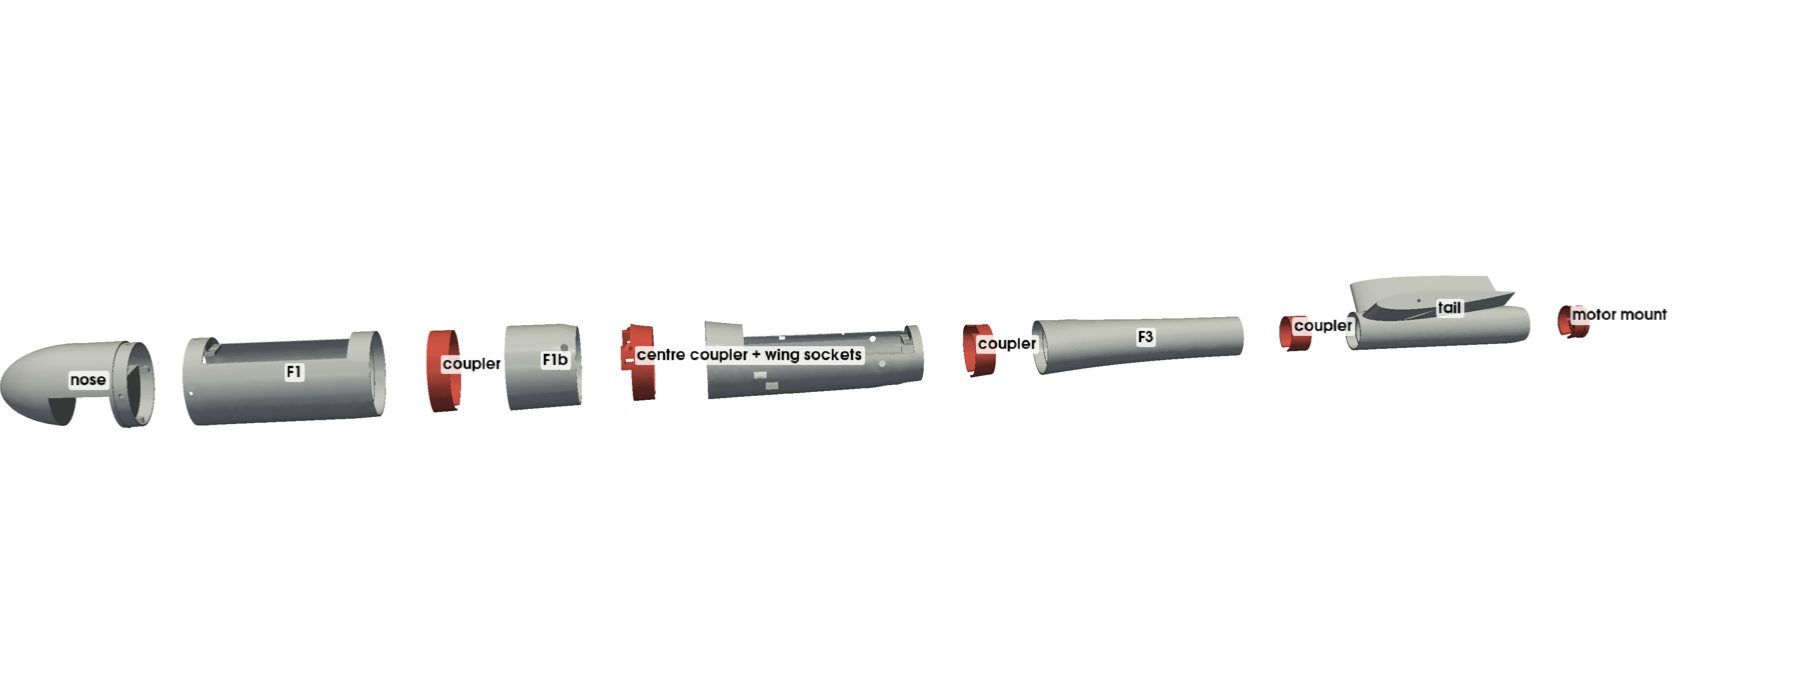
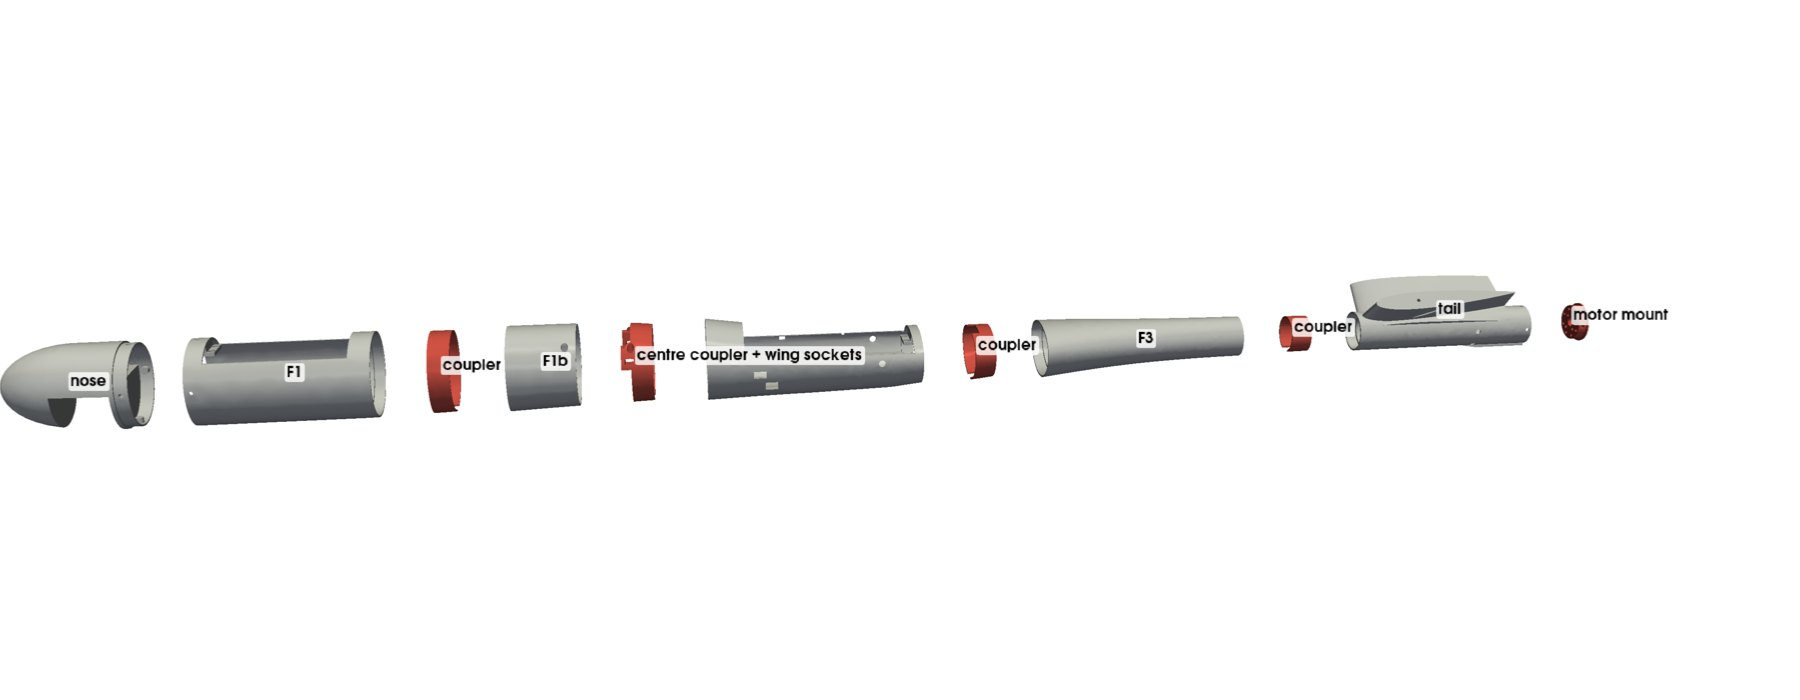
Monedula V11b: new renders, FreeCAD model, motor inside the tail on a removable coin, progress to 18 Nov (#22)
- monedula.html: V11b render and figures, motor coin, two-rod tail, hinges inside the skin, FreeCAD as the design method
- build.html: V11b renders (fuselage, wing root, hinges), 1.2 mm hinge slots, motor coin
- progress.html: V11b timeline entries (17 and 18 Nov), FreeCAD wording
- about.html: Monedula card to V11b
- sitemap: lastmod 2026-11-18

Claude-Session: https://claude.ai/code/session_01CFhWm8xeH6teAiDTszaRiF

diff --git a/monedula.html b/monedula.html
@@ -78,11 +78,11 @@
   <section class="s" id="monedula">
     <div class="wrap">
       <div class="divider"><img src="images/logo_small.jpg" alt="" width="96" height="96" loading="lazy" decoding="async"><div class="rule"></div><span class="sec">Next plan</span></div>
-      <div class="kicker rv">Next airframe · V11, designed and CFD-checked, not built yet</div>
+      <div class="kicker rv">Next airframe · V11b, designed in FreeCAD and CFD-checked, not built yet</div>
       <h2 class="rv">SILM Monedula</h2>
-      <p class="lead rv">Monedula is our plan for the successor to SILM Buteo. It keeps the same electronics, camera and software, and reworks the airframe around everything we learnt from Buteo: a slimmer fuselage, a longer wing on a stronger spar, the motor outside the tail, PETG connectors and TPU hinges, and a swappable payload nose. Monedula is the Latin name of the jackdaw.</p>
+      <p class="lead rv">Monedula is our plan for the successor to SILM Buteo. It keeps the same electronics, camera and software, and reworks the airframe around everything we learnt from Buteo: a slimmer fuselage, a longer wing on a stronger spar, the motor in the tail end on a removable PETG coin, PETG connectors and TPU hinges, and a swappable payload nose. Monedula is the Latin name of the jackdaw.</p>
 
-      <figure class="rv" style="margin-top:34px"><img class="zoom" src="images/monedula.jpg" alt="SILM Monedula V11 CAD render: slim fuselage, 1.5 m straight wing with orange ailerons and a V-tail" data-cap="SILM Monedula V11, CAD model. Orange: ailerons and ruddervators. Light blue: hatches. Red: PETG connectors. Black: TPU sleds." width="1800" height="1000" loading="lazy" decoding="async"><figcaption>Monedula V11. All 69 parts are separate, print-ready STEP files for a 220 mm print bed, with the print material in each file name.</figcaption></figure>
+      <figure class="rv" style="margin-top:34px"><img class="zoom" src="images/monedula.jpg" alt="SILM Monedula V11b FreeCAD model render: slim fuselage, 1.5 m straight wing with orange ailerons and a V-tail" data-cap="SILM Monedula V11b, modelled in FreeCAD. Orange: ailerons and ruddervators. Light blue: hatches. Red: PETG connectors. Black: TPU sleds." width="1800" height="1000" loading="lazy" decoding="async"><figcaption>Monedula V11b, modelled in FreeCAD. All 69 parts are separate, print-ready STEP files for a 220 mm print bed, with the print material in each file name.</figcaption></figure>
 
       <div class="statgrid rv">
         <div><div class="v">1.5 m</div><div class="l">wingspan, up from 1.4 m</div></div>
@@ -95,40 +95,40 @@
       <table class="tbl rv">
         <thead><tr><th>Area</th><th>SILM Buteo</th><th>Monedula</th></tr></thead>
         <tbody>
-          <tr><td>Fuselage</td><td>About 98 mm round, components spread out</td><td>79 x 81 mm, 918 mm long in six printed sections; electronics on two removable racks behind the battery</td></tr>
+          <tr><td>Fuselage</td><td>About 98 mm round, components spread out</td><td>79 x 81 mm, 919 mm long in six printed sections, smooth curvature-continuous skin; electronics on two removable racks behind the battery</td></tr>
           <tr><td>Wing</td><td>1.4 m, 3° dihedral, 7 mm carbon tube</td><td>1.5 m, flat, 10 mm carbon tube with 6 mm rods outboard; bolts on with two screws</td></tr>
-          <tr><td>Motor</td><td>Inside the tail cone</td><td>Outside on a PETG end plug, in free air for cooling</td></tr>
-          <tr><td>Tail</td><td>V-tail close to the propeller</td><td>Larger 38° V-tail on a longer tail arm, 70 mm clear of the propeller</td></tr>
+          <tr><td>Motor</td><td>Inside the tail cone</td><td>Inside the straight tail end on a PETG coin held by three screws; motor and coin come out together. Vents and intakes cool it</td></tr>
+          <tr><td>Tail</td><td>V-tail close to the propeller</td><td>Larger 38° V-tail on a longer tail arm, two carbon rods per panel and solid tips</td></tr>
           <tr><td>Joints</td><td>Printed overlapping spigots</td><td>PETG couplers between all sections, PETG wing root ribs and sockets, PETG spar carrier</td></tr>
-          <tr><td>Control surfaces</td><td>Printed horns</td><td>TPU flex hinges and PETG horns; SG90s in PETG frames</td></tr>
+          <tr><td>Control surfaces</td><td>Printed horns</td><td>TPU flex hinges inside the skin and PETG horns; SG90s in PETG frames</td></tr>
           <tr><td>Landing</td><td>Belly</td><td>Two screw-on TPU sleds, replaceable after a hard landing</td></tr>
           <tr><td>Payload</td><td>Camera in the nose</td><td>Swappable nose module on four heat-set inserts</td></tr>
-          <tr><td>Design method</td><td>Hand-modelled in SolidWorks</td><td>Generated from parametric Python code, so a dimension change rebuilds and rechecks every part</td></tr>
+          <tr><td>Design method</td><td>Hand-modelled in SolidWorks</td><td>Modelled in FreeCAD; every part checked for clashes, fit clearances and assembly paths</td></tr>
         </tbody>
       </table>
-      <h3 class="rv" style="margin-top:56px">Key figures, V11</h3>
+      <h3 class="rv" style="margin-top:56px">Key figures, V11b</h3>
       <div class="tblwrap rv"><table class="tbl">
         <thead><tr><th>Figure</th><th>Value</th><th>Source</th></tr></thead>
         <tbody>
           <tr><td>Wingspan, area, aspect ratio</td><td>1.50 m, 0.270 m², 8.3</td><td>CAD</td></tr>
           <tr><td>Root / tip chord, mean chord</td><td>240 / 120 mm, 187 mm</td><td>CAD</td></tr>
           <tr><td>Airfoils</td><td>MH32 wing, NACA 0012 V-tail at 38°</td><td>design</td></tr>
-          <tr><td>Length</td><td>918 mm plus motor and folding prop</td><td>CAD</td></tr>
+          <tr><td>Length</td><td>919 mm plus the folding prop</td><td>CAD</td></tr>
           <tr><td>All-up mass</td><td>1.79 kg modelled; 1.86–1.95 kg expected on the scale</td><td>mass model</td></tr>
-          <tr><td>Balance point</td><td>361.5 mm from the nose tip</td><td>mass model</td></tr>
+          <tr><td>Balance point</td><td>361.5 mm from the nose tip, set with the battery</td><td>mass model</td></tr>
           <tr><td>Static margin</td><td>13.7 % (neutral point 387 mm)</td><td>OpenFOAM</td></tr>
           <tr><td>Cruise</td><td>about 15 m/s, lift coefficient 0.46, L/D about 17</td><td>OpenFOAM</td></tr>
           <tr><td>Stall</td><td>about 10 m/s</td><td>estimate</td></tr>
-          <tr><td>Printed parts</td><td>69: 28 LW-PLA, 21 PETG, 20 TPU</td><td>CAD</td></tr>
+          <tr><td>Printed parts</td><td>69: 28 LW-PLA, 21 PETG, 20 TPU, plus a fit-test coupon</td><td>CAD</td></tr>
           <tr><td>Parts cost</td><td>about €870, of which the airframe about €110</td><td>price check, Nov 2026</td></tr>
         </tbody>
       </table></div>
-      <p class="note rv">How we got here: the first OpenFOAM run on Monedula (16 November) showed the earlier layout was unstable in pitch, with a static margin of −3.4 %. Our design tool had predicted +14 % because it ignores the wing's downwash on the tail. We lengthened the fuselage by 68 mm, enlarged the V-tail and ran the CFD again: 13.7 %. All figures are design estimates, not flight data.</p>
+      <p class="note rv">How we got here: the first OpenFOAM run on Monedula (16 November) showed the earlier layout was unstable in pitch, with a static margin of −3.4 %. Our design tool had predicted +14 % because it ignores the wing's downwash on the tail. We lengthened the fuselage by 68 mm, enlarged the V-tail and ran the CFD again: 13.7 %. V11b (17–18 November) smoothed the fuselage skin, joined the V-tail fully to the body, moved the hinges inside the skin, stiffened the tail tips, put the motor inside the tail and set fit clearances for LW-PLA and PETG. All figures are design estimates, not flight data.</p>
 
       <h3 class="rv" style="margin-top:56px">Steps before it flies</h3>
       <div class="eval rv">
-        <div class="item"><span class="mk">1</span><div><h4>Check the CAD</h4><p>Every part pair has been checked for clashes in code; next, open the parts in SolidWorks and follow the assembly guide on screen.</p></div></div>
-        <div class="item"><span class="mk">2</span><div><h4>Print test pieces</h4><p>Print one coupler joint, a wing root rib with its socket and a hinged aileron piece; load-test the joint and the root, and flex a TPU hinge a few thousand times.</p></div></div>
+        <div class="item"><span class="mk">1</span><div><h4>Check the CAD</h4><p>Every part pair has been checked for clashes and fit; next, follow the assembly guide on screen in FreeCAD.</p></div></div>
+        <div class="item"><span class="mk">2</span><div><h4>Print test pieces</h4><p>Print the fit coupon, one coupler joint, a wing root rib with its socket and a hinged aileron piece; load-test the joint and the root, and flex a TPU hinge a few thousand times.</p></div></div>
         <div class="item"><span class="mk">3</span><div><h4>Refine the CFD</h4><p>First OpenFOAM runs are done; next, finer meshes with the real control-surface gaps and the camera, and a transition model for drag.</p></div></div>
         <div class="item"><span class="mk">4</span><div><h4>Build and weigh</h4><p>Print the full airframe, weigh every part, and set the balance to 361.5 mm with the battery before the first flight.</p></div></div>
       </div>

diff --git a/progress.html b/progress.html
@@ -144,7 +144,7 @@
 
       <div class="statgrid rv" style="margin:30px 0 0">
         <div><div class="v">8 / 8</div><div class="l">primary components received</div></div>
-        <div><div class="v">V11</div><div class="l">SILM Monedula airframe, 69 print-ready parts, CFD-checked</div></div>
+        <div><div class="v">V11b</div><div class="l">SILM Monedula airframe in FreeCAD, 69 print-ready parts, CFD-checked</div></div>
         <div><div class="v">14 Nov</div><div class="l">first motor thrust test</div></div>
         <div><div class="v" id="countdown">35 days</div><div class="l">to the presentation</div></div>
       </div>
@@ -185,19 +185,21 @@
             <div class="row fresh"><span class="d">9 Nov</span><span class="t">Mass and balance redone for V9: about 1.70 kg all-up, CG 341.7 mm, static margin about 21%. The onboard computer is now a Raspberry Pi 4.</span><span class="o">Analysis</span></div>
             <div class="row fresh"><span class="d">10 Nov</span><span class="t">Full SolidWorks assembly built from the V9 parts, with the second wing mirrored, ready for fit checks.</span><span class="o">CAD</span></div>
             <div class="row fresh"><span class="d">15 Nov</span><span class="t">Website reorganised into separate pages. The current airframe is now called SILM Buteo, and SILM Monedula is the next airframe.</span><span class="o">Website</span></div>
-            <div class="row fresh"><span class="d">15 Nov</span><span class="t">SILM Monedula started as a parametric design in Python (CadQuery): every part is generated from the design data, so a change rebuilds and rechecks the whole airframe. 1.5 m wing, 79 × 81 mm fuselage, motor outside the tail.</span><span class="o">CAD</span></div>
+            <div class="row fresh"><span class="d">15 Nov</span><span class="t">SILM Monedula started as a parametric model in FreeCAD, so a change rebuilds and rechecks the whole airframe. 1.5 m wing, 79 × 81 mm fuselage.</span><span class="o">CAD</span></div>
             <div class="row fresh"><span class="d">16 Nov</span><span class="t">First OpenFOAM run on Monedula. The first mesh used the print files (gaps, seams) and gave L/D 11.6; we discarded it and meshed a clean outer surface with boundary-layer cells instead: L/D 18.</span><span class="o">Analysis</span></div>
             <div class="row fresh"><span class="d">16 Nov</span><span class="t">The same CFD showed the layout was unstable in pitch: static margin −3.4 % instead of the +14 % our design tool predicted. The tool ignores the wing's downwash on the tail; a vortex-lattice check agreed with the CFD.</span><span class="o">Analysis</span></div>
             <div class="row fresh"><span class="d">17 Nov</span><span class="t">Monedula V11: fuselage lengthened by 68 mm and the V-tail enlarged. A second CFD run confirmed a 13.7 % static margin, chosen over 18 % to limit trim drag.</span><span class="o">Design, analysis</span></div>
             <div class="row fresh"><span class="d">17 Nov</span><span class="t">V11 connectors: PETG couplers between all six fuselage sections, Flightory-style PETG wing root ribs and sockets, PETG spar carrier, TPU flex hinges, PETG horns and servo frames, screw-on TPU sleds. The central payload bay was removed; payloads go on the nose.</span><span class="o">CAD</span></div>
             <div class="row fresh"><span class="d">17 Nov</span><span class="t">All 69 parts checked for clashes and fit; STEP files labelled with their print material. Assembly guide and a full materials list written: about €870 in parts and 1.79 kg modelled.</span><span class="o">Documentation</span></div>
+            <div class="row fresh"><span class="d">17 Nov</span><span class="t">Monedula V11b: smoothed fuselage skin (six creases removed), V-tail joined to the body to the trailing edge, ruddervator hinges moved inside the skin, stiffer tail tips with a second carbon rod, fit clearances for LW-PLA and PETG and a fit-test coupon.</span><span class="o">CAD</span></div>
+            <div class="row fresh"><span class="d">18 Nov</span><span class="t">Motor moved inside the tail end on a PETG coin held by three screws, so motor and coin come out together; belly channel for the motor leads, vents and intakes for cooling. CFD case re-meshed on the new shape.</span><span class="o">CAD, analysis</span></div>
           </div>
         </div>
 
         <div class="panel" role="tabpanel">
           <div class="eval good">
             <div class="item"><span class="mk">✓</span><div><h4>CFD caught a real problem before printing</h4><p>Running OpenFOAM on Monedula showed it would have been unstable in pitch. We found the cause, changed the design and confirmed the fix with a second run, all before printing anything.</p></div></div>
-          <div class="item"><span class="mk">✓</span><div><h4>The design is now generated, not hand-drawn</h4><p>Monedula is built from code. Lengthening the fuselage moved the wing, bay, tail and every joint together, and the clash checks ran again automatically on all 69 parts.</p></div></div>
+          <div class="item"><span class="mk">✓</span><div><h4>The design is now fully parametric</h4><p>Monedula is a parametric FreeCAD model. Lengthening the fuselage moved the wing, bay, tail and every joint together, and the clash checks ran again automatically on all 69 parts.</p></div></div>
           <div class="item"><span class="mk">✓</span><div><h4>Problems were found on paper</h4><p>The balance and fit checks found an unstable CG and three component clashes before any part was printed, while they were still cheap to fix.</p></div></div>
             <div class="item"><span class="mk">✓</span><div><h4>Main components arrived on schedule</h4><p>We planned procurement for 6 to 19 October and had all eight primary components in hand on 20 October, so the electronics work is no longer waiting on deliveries.</p></div></div>
             <div class="item"><span class="mk">✓</span><div><h4>The aerodynamic design is complete</h4><p>XFLR5 and OpenFOAM agree on lift and stability, and with the wing moved aft the aircraft has a static margin of about 20%. Aerodynamics is no longer holding up the build.</p></div></div>
@@ -302,7 +304,7 @@
           <h3>Design and analysis</h3>
           <div class="hc-hint">Hover or tap for detail</div>
           <div class="hc-wrap"><div class="hc-panel"><ul><li>Airfoil selection and XFLR5 analysis of the full aircraft</li><li>OpenFOAM airframe CFD, then a second run with the wing moved 20 mm aft (3 Nov)</li><li>CG from the 3D model and internal layout fit check (3 Nov)</li><li>Full-aircraft CAD assembly V4; part models continue</li>
-<li>SILM Monedula V11: parametric airframe, CFD-checked 14 % static margin, 69 print-ready parts (17 Nov)</li></ul></div></div>
+<li>SILM Monedula V11: parametric FreeCAD airframe, CFD-checked 14 % static margin, 69 print-ready parts (17 Nov)</li><li>SILM Monedula V11b: smoother skin, hinges inside the skin, stronger tail tips, motor inside the tail on a removable coin, fit clearances (18 Nov)</li></ul></div></div>
         </div></div>
         <div class="step now rv"><div class="num">02</div><div class="step-body hovercard">
           <div class="meta"><span class="tag late">Partly done</span><span class="date"><s>6 to 19 Oct</s><b>primary 20 Oct; secondary 4 Nov</b></span></div>

diff --git a/build.html b/build.html
@@ -132,17 +132,17 @@
         </div>
 
         <div class="panel" role="tabpanel">
-          <p>Everything needed to print and assemble SILM Monedula V11 is ready: 69 STEP files labelled with their print material, an illustrated assembly guide and a full materials list. Nothing has been printed yet.</p>
+          <p>Everything needed to print and assemble SILM Monedula V11b, modelled in FreeCAD, is ready: 69 STEP files labelled with their print material, an illustrated assembly guide and a full materials list. Nothing has been printed yet.</p>
           <div class="statgrid" style="margin-top:22px">
             <div><div class="v">28</div><div class="l">LW-PLA parts: skins, wing and tail panels, surfaces, hatches, racks</div></div>
-            <div><div class="v">21</div><div class="l">PETG parts: couplers, root ribs, sockets, spar carrier, servo frames, horns, motor mount</div></div>
+            <div><div class="v">21</div><div class="l">PETG parts: couplers, root ribs, sockets, spar carrier, servo frames, horns, motor coin</div></div>
             <div><div class="v">20</div><div class="l">TPU parts: two belly sleds and 18 flex hinges</div></div>
             <div><div class="v">≈€870</div><div class="l">parts in total, airframe about €110</div></div>
           </div>
           <figure class="rv" style="margin-top:22px"><img class="zoom" src="images/monedula_fuselage.jpg" alt="Exploded Monedula fuselage with PETG couplers" data-cap="Fuselage in six sections; each red ring is a PETG coupler. The one between F1b and F2 also carries both wing sockets." width="1800" height="700" loading="lazy" decoding="async"><figcaption>Fuselage in six sections; each red ring is a PETG coupler. The one between F1b and F2 also carries both wing sockets.</figcaption></figure>
           <div class="fig2">
             <div><figure class="rv" style="margin-top:22px"><img class="zoom" src="images/monedula_wingroot.jpg" alt="Monedula wing root connection" data-cap="Wing root: PETG root rib with tongue, carbon tube through the spar carrier, socket on the centre coupler. One M3 screw per wing." width="1400" height="850" loading="lazy" decoding="async"><figcaption>Wing root: PETG root rib with tongue, carbon tube through the spar carrier, socket on the centre coupler. One M3 screw per wing.</figcaption></figure></div>
-            <div><figure class="rv" style="margin-top:22px"><img class="zoom" src="images/monedula_hinges.jpg" alt="TPU flex hinges in an aileron" data-cap="TPU flex hinges: 0.8 mm strips in 1 mm slots, 10 mm into the wing and the aileron." width="1400" height="850" loading="lazy" decoding="async"><figcaption>TPU flex hinges: 0.8 mm strips in 1 mm slots, 10 mm into the wing and the aileron.</figcaption></figure></div>
+            <div><figure class="rv" style="margin-top:22px"><img class="zoom" src="images/monedula_hinges.jpg" alt="TPU flex hinges in an aileron" data-cap="TPU flex hinges: 0.8 mm strips in 1.2 mm slots, 10 mm into the wing and the aileron." width="1400" height="850" loading="lazy" decoding="async"><figcaption>TPU flex hinges: 0.8 mm strips in 1.2 mm slots, 10 mm into the wing and the aileron.</figcaption></figure></div>
           </div>
           <h3 style="margin-top:34px">Assembly order</h3>
           <div class="eval">

diff --git a/about.html b/about.html
@@ -104,7 +104,7 @@
       <h3 class="rv" style="margin-top:56px">Where the project stands, 17 November</h3>
       <div class="cards c3 rv">
         <div class="card"><div class="card-k">SILM Buteo</div><div class="card-t">Current airframe</div><div class="card-s">CAD V9 with a full SolidWorks assembly; OpenFOAM and XFLR5 analysis done; all primary electronics received; nose cone printed and weighed; thrust rig built.</div></div>
-        <div class="card"><div class="card-k">SILM Monedula</div><div class="card-t">Next airframe, V11</div><div class="card-s">Parametric CAD, 69 print-ready parts; CFD found and fixed a pitch instability (now 13.7 % static margin); assembly guide and materials list written.</div></div>
+        <div class="card"><div class="card-k">SILM Monedula</div><div class="card-t">Next airframe, V11b</div><div class="card-s">Modelled in FreeCAD, 69 print-ready parts; CFD found and fixed a pitch instability (now 13.7 % static margin); assembly guide and materials list written.</div></div>
         <div class="card"><div class="card-k">Next</div><div class="card-t">To the presentation</div><div class="card-s">Print and load-test the joints and hinges, thrust test, ground tests of controls and failsafe, results summary. Presentation on 8 December 2026.</div></div>
       </div>
       <p class="rv" style="margin-top:18px"><a href="progress.html">Full progress report and timeline</a> · <a href="build.html">Build and tests</a> · <a href="monedula.html">SILM Monedula</a></p>
